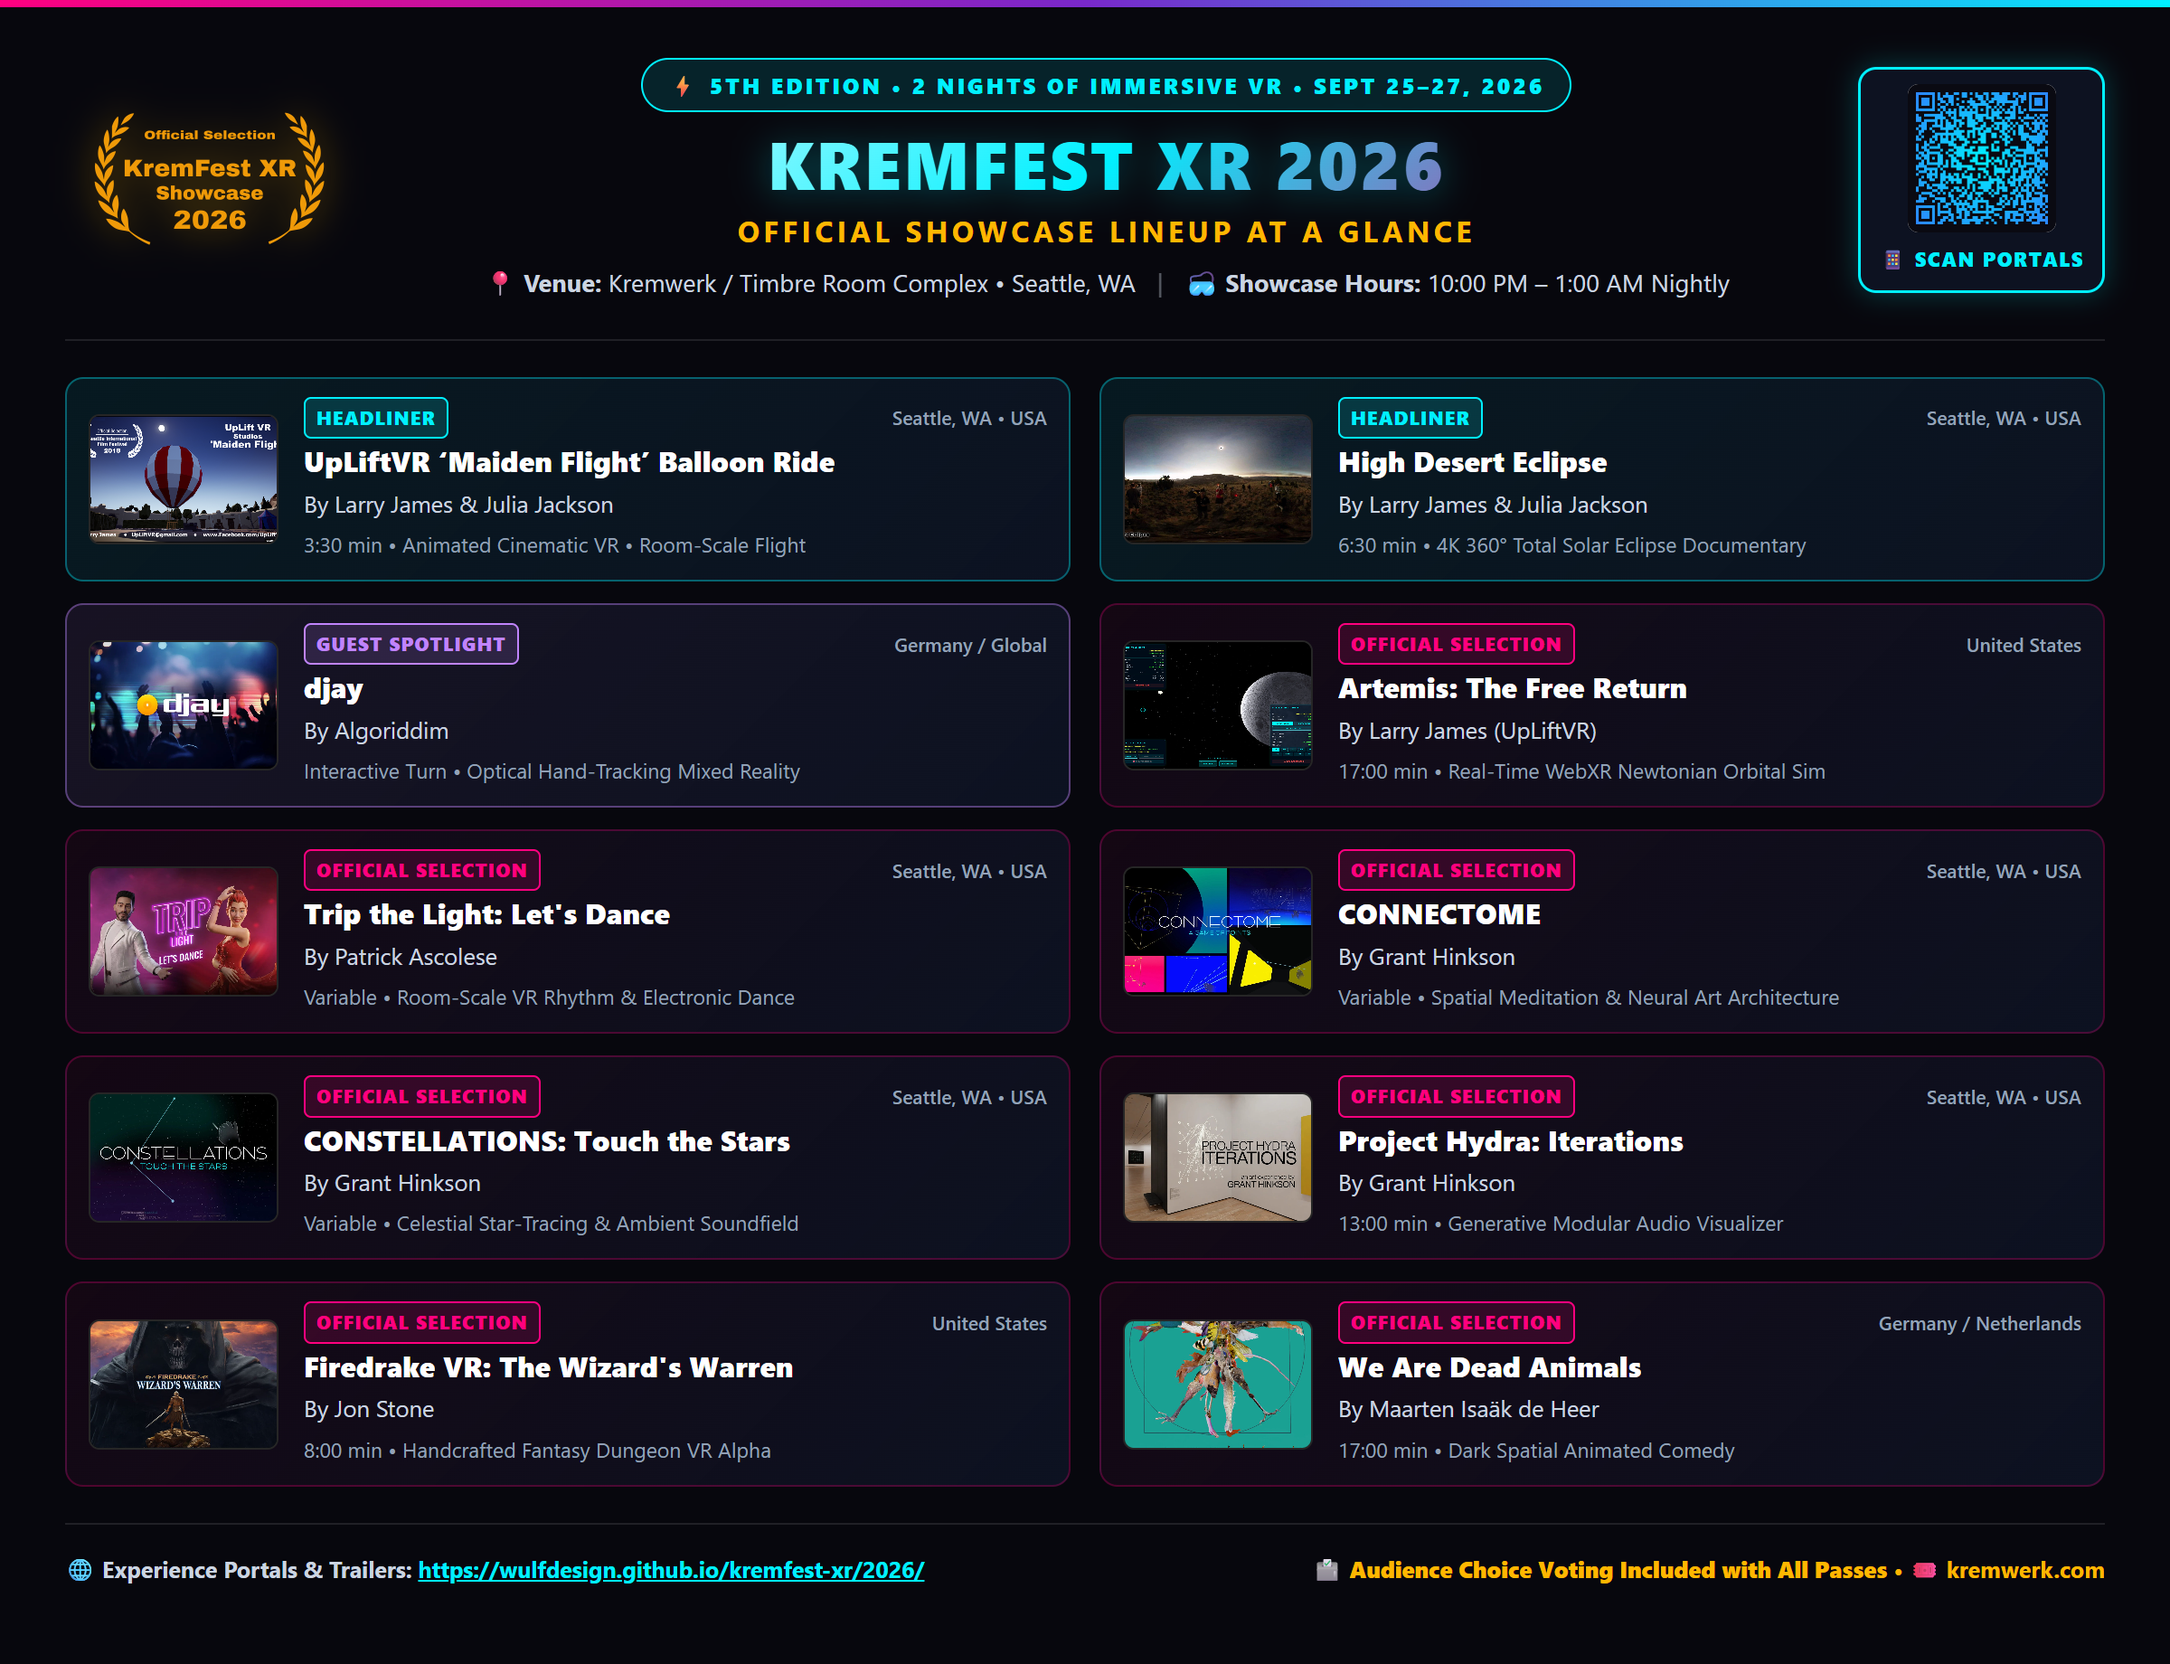
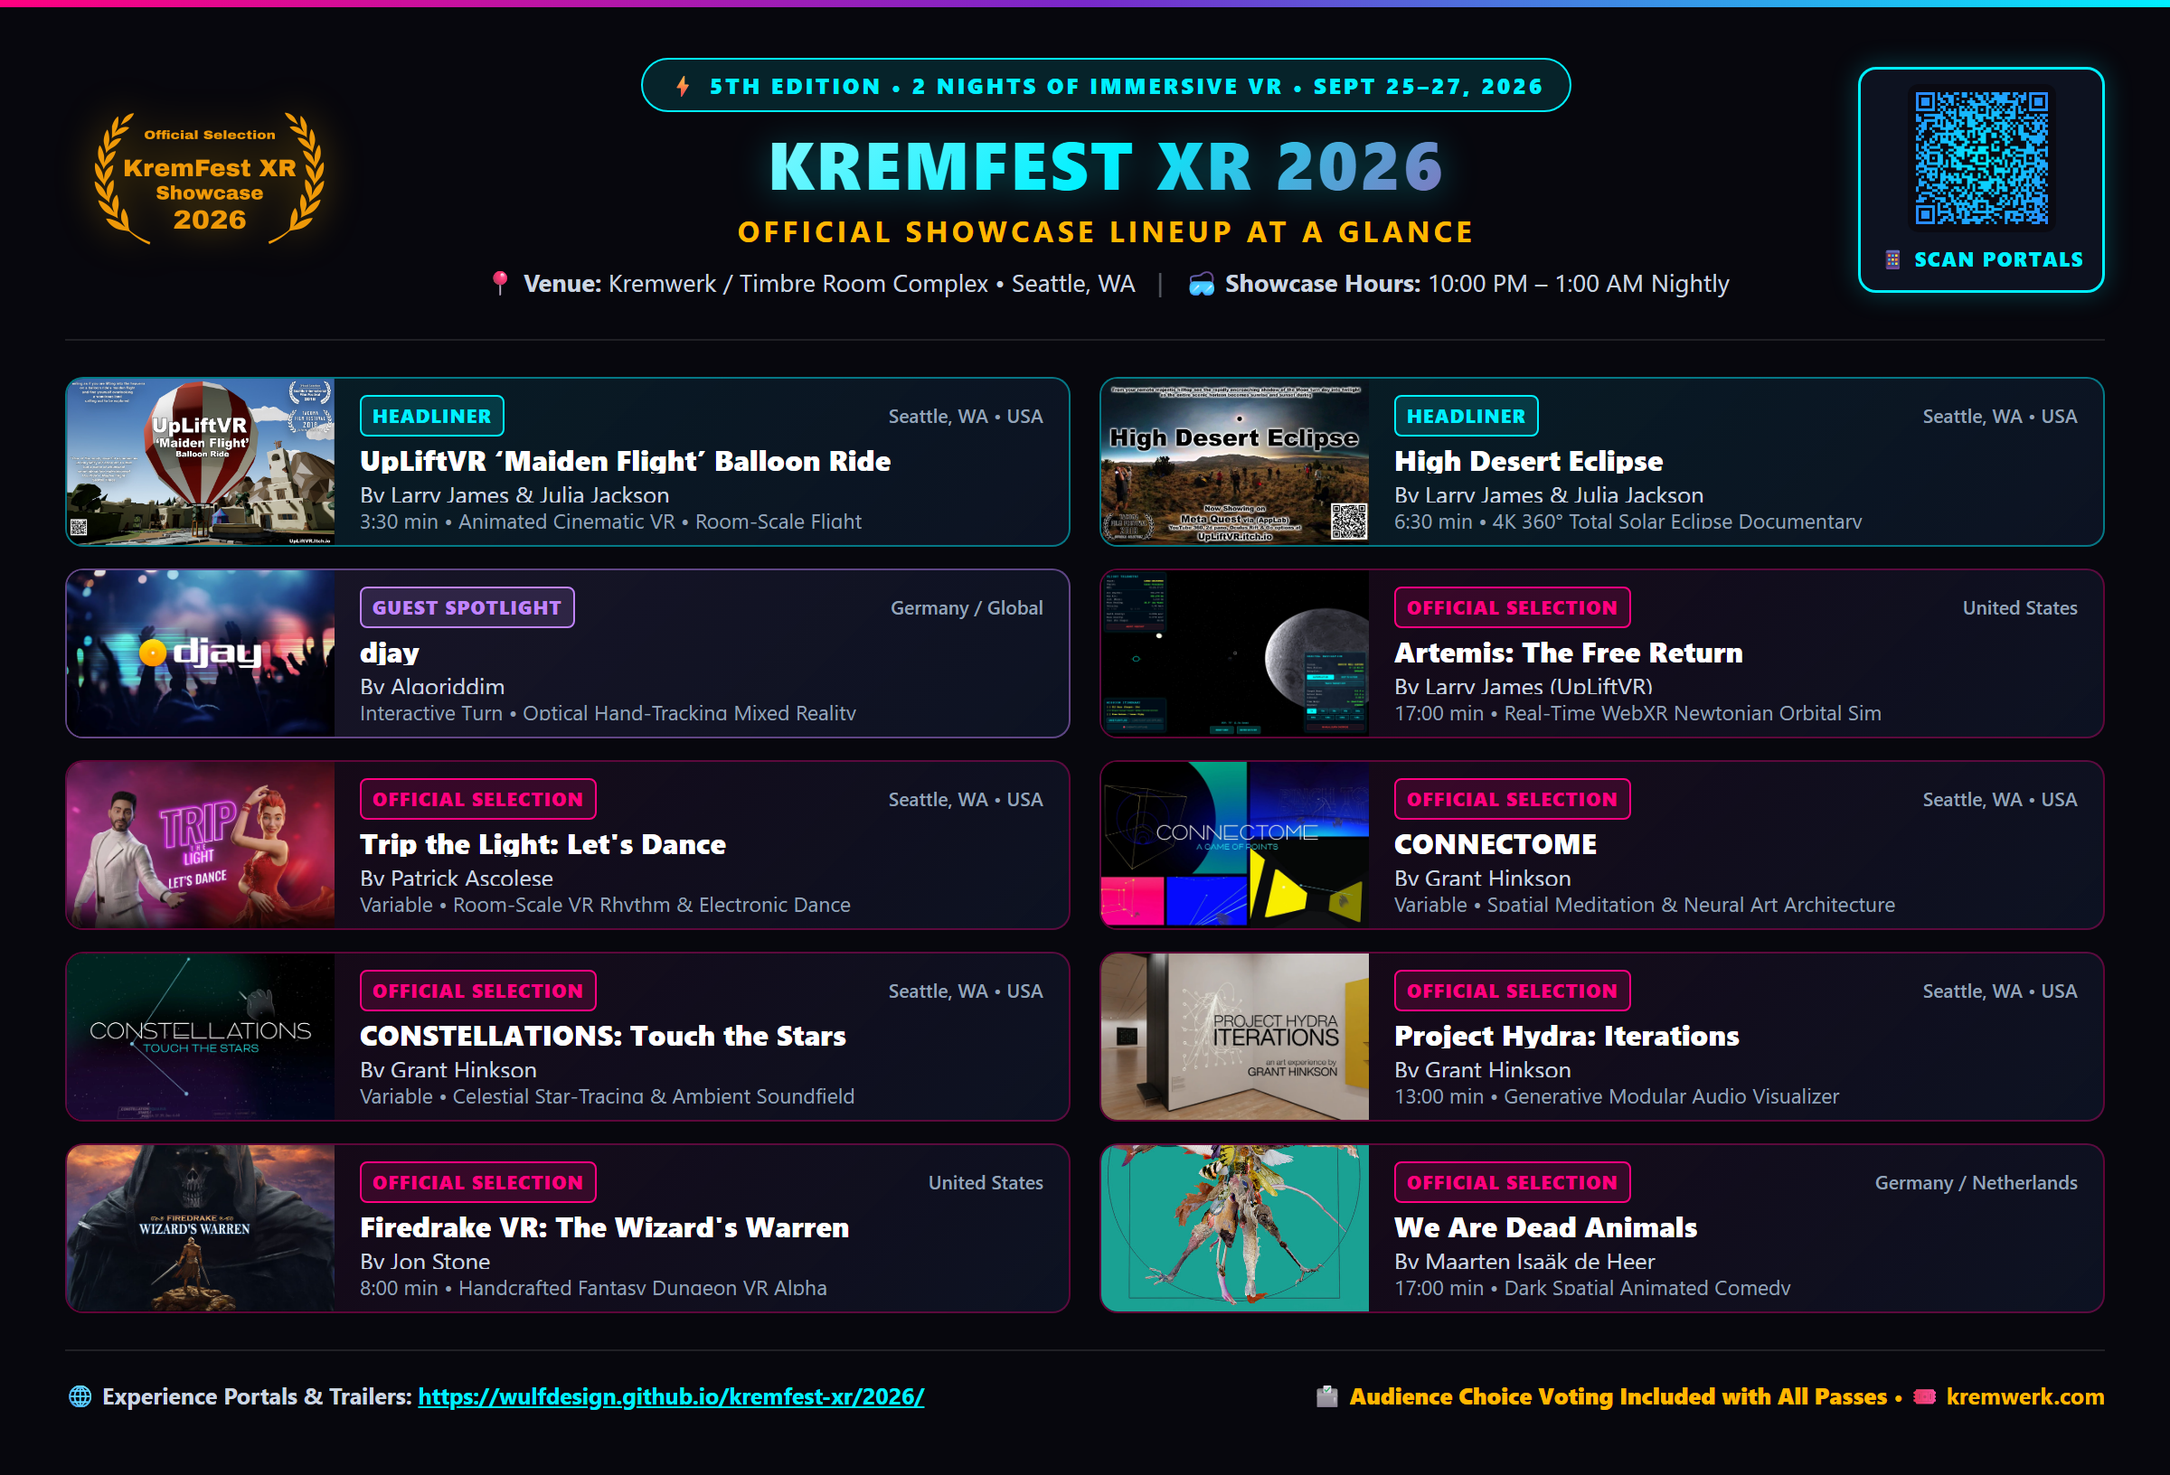
feat(public): universal 2026 headliner art across all years and 2x edge-to-edge social one-sheet (v0.1.99)

diff --git a/2026/index.html b/2026/index.html
@@ -4,7 +4,7 @@
   <meta charset="UTF-8">
   <meta name="viewport" content="width=device-width, initial-scale=1.0">
   <title>KremFest XR 2026 — 5th Showcase Edition & Submissions</title>
-  <link rel="stylesheet" href="../assets/css/style.css?v=0.1.84">
+  <link rel="stylesheet" href="../assets/css/style.css?v=0.1.98">
   
   <style>
     /* Flanked Card Action Row Styles (Direct Injection ensures correct rendering without CSS cache dependency) */
@@ -344,6 +344,7 @@
 </head>
 <body class="show-qr-badges">
   
+  
   <nav class="navbar">
     <div class="nav-container">
       <a href="../index.html" class="brand-link">
@@ -419,6 +420,15 @@
 
     </div>
 
+    <div class="diamond-divider"><span class="diamond-pill">✦</span></div>
+
+    
+    <div class="glance-section">
+      <h3 class="glance-title">2026 Showcase Lineup at a Glance</h3>
+      <ul class="glance-bullets">
+        <li><strong>UpLiftVR ‘Maiden Flight’ Balloon Ride</strong> • Larry James & Julia Jackson • 3:30 min • Seattle, USA</li><li><strong>High Desert Eclipse</strong> • Larry James & Julia Jackson • 6:30 min • Seattle, USA</li><li><strong>djay</strong> • Algoriddim • 5–10 min • Germany / Global</li><li><strong>Artemis: The Free Return</strong> • Larry James • 17 min • Seattle, USA</li><li><strong>Trip the Light: Let's Dance</strong> • Patrick Ascolese • Variable • Seattle, USA</li><li><strong>CONNECTOME</strong> • Grant Hinkson • Variable • Seattle, USA</li><li><strong>CONSTELLATIONS: Touch the Stars</strong> • Grant Hinkson • Variable • Seattle, USA</li><li><strong>Project Hydra: Iterations</strong> • Grant Hinkson • 13 min • Seattle, USA</li><li><strong>Firedrake VR: The Wizard's Warren</strong> • Jon Stone • 8 min • USA</li><li><strong>We Are Dead Animals</strong> • Maarten Isaäk de Heer • 17 min • Germany / Netherlands</li>
+      </ul>
+    </div>
     <div class="diamond-divider"><span class="diamond-pill">✦</span></div>
 
     <h2 class="group-heading">Headline Experiences from UpLiftVR Studios</h2>
@@ -931,15 +941,6 @@ Together, de Heer’s projects form a unique artistic practice that combines ani
       </div>
     </div>
 
-
-    <div class="diamond-divider"><span class="diamond-pill">✦</span></div>
-    
-    <div class="glance-section">
-      <h3 class="glance-title">2026 Showcase Lineup at a Glance</h3>
-      <ul class="glance-bullets">
-        <li><strong>UpLiftVR ‘Maiden Flight’ Balloon Ride</strong> • Larry James & Julia Jackson • 3 min 30 sec • USA</li><li><strong>High Desert Eclipse</strong> • Larry James & Julia Jackson • 6 min 30 sec • USA</li><li><strong>Artemis: The Free Return (WebXR Orbital Sandbox)</strong> • Larry James • 17 minutes (Variable 5 minutes – 60 hours) • United States</li><li><strong>Trip the Light: Let's Dance</strong> • Patrick Ascolese • Variable (Interactive Room-Scale Rhythm Experience) • Seattle, WA • USA</li><li><strong>CONNECTOME</strong> • Grant Hinkson • Variable (Room-Scale Spatial Meditation & Art Puzzle) • Seattle, WA • USA</li><li><strong>CONSTELLATIONS: Touch the Stars</strong> • Grant Hinkson • Variable (Celestial Star-Tracing & Ambient Starfield) • Seattle, WA • USA</li><li><strong>Project Hydra: Iterations</strong> • Grant Hinkson • 13 minutes (Complete Generative Audio Loop) • Seattle, WA • USA</li><li><strong>djay</strong> • Algoriddim • Interactive / Open-Ended (5:00–10:00 Recommended Turn) • Germany (Munich) / Global</li><li><strong>Firedrake VR</strong> • Jon Stone • 8:00 • United States</li><li><strong>We Are Dead Animals</strong> • Tote Tiere Maarten (Maarten Isaäk de Heer) • 17:00 (15:00–19:00 Variable) • Germany, Netherlands</li>
-      </ul>
-    </div>
     <div class="diamond-divider"><span class="diamond-pill">✦</span></div>
     
     <div class="presenters-section">

diff --git a/2018/index.html b/2018/index.html
@@ -8,6 +8,7 @@
 </head>
 <body>
   
+  
   <nav class="navbar">
     <div class="nav-container">
       <a href="../index.html" class="brand-link">
@@ -43,7 +44,7 @@
     <div class="glance-section">
       <h3 class="glance-title">2018 Showcase Lineup at a Glance</h3>
       <ul class="glance-bullets">
-        <li><strong>UpLiftVR ‘Maiden Flight’ Balloon Ride</strong> • Larry James & Julia Jackson • 3:30 min • Seattle, USA</li><li><strong>High Desert Eclipse</strong> • Larry James & Julia Jackson • 6:30 min • Seattle, USA</li><li><strong>Symbion Project - Bloodthirsty</strong> • Micah Knapp & Avielle Heath (Music by Kasson Crooker) • 6:17 min • Bellingham WA, USA</li><li><strong>Lionhearted</strong> • Ricarda Saleh (Produced by Malte Stehr) • 12:09 min • Hamburg, Germany</li><li><strong>Walter</strong> • Christopher Huang • 4:00 min • USA / Indonesia</li><li><strong>RocketMan 360</strong> • Millo Simulov & Filip Columbeanu (Produced by Gabriela Stefania Hirit) • 20:00 min • Bucharest, Romania</li><li><strong>Crackle</strong> • Eddie Avil, Ashley Rodrigues, Saju Jose • 14:36 min • India</li>
+        <li><strong>UpLiftVR ‘Maiden Flight’ Balloon Ride</strong> • Larry James & Julia Jackson • 3:30 min • Seattle, USA</li><li><strong>High Desert Eclipse</strong> • Larry James & Julia Jackson • 6:30 min • Seattle, USA</li><li><strong>Symbion Project - Bloodthirsty</strong> • Micah Knapp & Avielle Heath • 6:17 min • Bellingham, USA</li><li><strong>Lionhearted</strong> • Ricarda Saleh • 12:09 min • Hamburg, Germany</li><li><strong>Walter</strong> • Christopher Huang • 4:00 min • USA / Indonesia</li><li><strong>RocketMan 360</strong> • Millo Simulov & Filip Columbeanu • 20:00 min • Bucharest, Romania</li><li><strong>Crackle</strong> • Eddie Avil, Ashley Rodrigues & Saju Jose • 14:36 min • India</li>
       </ul>
     </div>
     <div class="diamond-divider"><span class="diamond-pill">✦</span></div>
@@ -51,7 +52,7 @@
     <h2 class="group-heading">Headline Experiences from UpLiftVR Studios</h2>
     
     <article class="project-entry" id="2018-hl-maiden-flight">
-      <img class="project-image" src="../assets/images/2018/maiden_flight_2018.png" alt="UpLiftVR ‘Maiden Flight’ Balloon Ride" loading="lazy">
+      <img class="project-image" src="../assets/images/headliners/maiden_flight_banner.jpg" alt="UpLiftVR ‘Maiden Flight’ Balloon Ride" loading="lazy">
       <h3 class="project-title">UpLiftVR ‘Maiden Flight’ Balloon Ride</h3>
       <div class="project-byline">By Larry James & Julia Jackson</div>
       <p class="project-logline">Feeling as if you are lifting into the heavens on a balloon maiden flight you find yourself overlooking a wondrous lucid dreamlike land calling out to be explored.</p>
@@ -68,7 +69,7 @@
     </article>
     <div class="diamond-divider"><span class="diamond-pill">✦</span></div>
     <article class="project-entry" id="2018-hl-high-desert-eclipse">
-      <img class="project-image" src="../assets/images/2018/high_desert_eclipse_2018.png" alt="High Desert Eclipse" loading="lazy">
+      <img class="project-image" src="../assets/images/headliners/high_desert_eclipse_banner.jpg" alt="High Desert Eclipse" loading="lazy">
       <h3 class="project-title">High Desert Eclipse</h3>
       <div class="project-byline">By Larry James & Julia Jackson</div>
       <p class="project-logline">From a remote majestic hilltop overlook the rapidly encroaching shadow of the moon turns day into twilight and the entire panoramic high desert scenic horizon becomes either sunrise or sunset.</p>

diff --git a/2025/index.html b/2025/index.html
@@ -8,6 +8,7 @@
 </head>
 <body>
   
+  
   <nav class="navbar">
     <div class="nav-container">
       <a href="../index.html" class="brand-link">
@@ -35,6 +36,15 @@
       </p>
     </div>
 
+    <div class="diamond-divider"><span class="diamond-pill">✦</span></div>
+
+    
+    <div class="glance-section">
+      <h3 class="glance-title">2025 Showcase Lineup at a Glance</h3>
+      <ul class="glance-bullets">
+        <li><strong>UpLiftVR ‘Maiden Flight’ Balloon Ride</strong> • Larry James & Julia Jackson • 3 min 30 sec • USA</li><li><strong>High Desert Eclipse</strong> • Larry James & Julia Jackson • 6 min 30 sec • USA</li><li><strong>Noises</strong> • Diana David • ~3-5 min per path (~15 min total exploration) • Portugal</li><li><strong>Max Q</strong> • Joel Benjamin • 17 min 30 sec • USA</li><li><strong>The Encounter</strong> • Jaishankar Srinivasan • 10 min 07 sec • USA</li><li><strong>Meridian Transmissions</strong> • Eric Patrick • 12 min 56 sec • USA</li><li><strong>Toward Entropy 360</strong> • Jaewook Lee • 15 min 00 sec • USA</li>
+      </ul>
+    </div>
     <div class="diamond-divider"><span class="diamond-pill">✦</span></div>
 
     <h2 class="group-heading">Headline Experiences from UpLiftVR Studios</h2>
@@ -80,15 +90,6 @@
       </ul>
       <div class="project-links-row"><a href="https://youtu.be/fzcFw_33iC8" target="_blank">Watch 360 Eclipse Video</a> <span class="link-dot">•</span> <a href="https://www.meta.com/experiences/high-desert-eclipse/5486799141392429/" target="_blank">Meta Quest Store</a> <span class="link-dot">•</span> <a href="https://wulfdesign.github.io/high-desert-eclipse/" target="_blank">Eclipse Story Portal</a> <span class="link-dot">•</span> <a href="https://filmfreeway.com/HighDesertEclipse" target="_blank">FilmFreeway</a></div>
     </article>
-    <div class="diamond-divider"><span class="diamond-pill">✦</span></div>
-
-    
-    <div class="glance-section">
-      <h3 class="glance-title">2025 Showcase Lineup at a Glance</h3>
-      <ul class="glance-bullets">
-        <li><strong>UpLiftVR ‘Maiden Flight’ Balloon Ride</strong> • Larry James & Julia Jackson • 3 min 30 sec • USA</li><li><strong>High Desert Eclipse</strong> • Larry James & Julia Jackson • 6 min 30 sec • USA</li><li><strong>Noises</strong> • Diana David • ~3-5 min per path (~15 min total exploration) • Portugal</li><li><strong>Max Q</strong> • Joel Benjamin • 17 min 30 sec • USA</li><li><strong>The Encounter</strong> • Jaishankar Srinivasan • 10 min 07 sec • USA</li><li><strong>Meridian Transmissions</strong> • Eric Patrick • 12 min 56 sec • USA</li><li><strong>Toward Entropy 360</strong> • Jaewook Lee • 15 min 00 sec • USA</li>
-      </ul>
-    </div>
     <div class="diamond-divider"><span class="diamond-pill">✦</span></div>
 
     <h2 class="group-heading">2025 Official Selections</h2>

diff --git a/2019/index.html b/2019/index.html
@@ -8,6 +8,7 @@
 </head>
 <body>
   
+  
   <nav class="navbar">
     <div class="nav-container">
       <a href="../index.html" class="brand-link">
@@ -51,7 +52,7 @@
     <h2 class="group-heading">Headline Experiences from UpLiftVR Studios</h2>
     
     <article class="project-entry" id="2019-hl-maiden-flight">
-      <img class="project-image" src="../assets/images/2019/maiden_flight_2019.png" alt="UpLiftVR ‘Maiden Flight’ Balloon Ride" loading="lazy">
+      <img class="project-image" src="../assets/images/headliners/maiden_flight_banner.jpg" alt="UpLiftVR ‘Maiden Flight’ Balloon Ride" loading="lazy">
       <h3 class="project-title">UpLiftVR ‘Maiden Flight’ Balloon Ride</h3>
       <div class="project-byline">By Larry James & Julia Jackson</div>
       <p class="project-logline">Feeling as if you are lifting into the heavens on a balloon maiden flight you find yourself overlooking a wondrous lucid dreamlike land calling out to be explored.</p>
@@ -68,7 +69,7 @@
     </article>
     <div class="diamond-divider"><span class="diamond-pill">✦</span></div>
     <article class="project-entry" id="2019-hl-high-desert-eclipse">
-      <img class="project-image" src="../assets/images/2019/high_desert_eclipse_2019.png" alt="High Desert Eclipse" loading="lazy">
+      <img class="project-image" src="../assets/images/headliners/high_desert_eclipse_banner.jpg" alt="High Desert Eclipse" loading="lazy">
       <h3 class="project-title">High Desert Eclipse</h3>
       <div class="project-byline">By Larry James & Julia Jackson</div>
       <p class="project-logline">From a remote majestic hilltop overlook the rapidly encroaching shadow of the moon turns day into twilight and the entire panoramic high desert scenic horizon becomes either sunrise or sunset.</p>

diff --git a/index.html b/index.html
@@ -5,7 +5,7 @@
   <meta name="viewport" content="width=device-width, initial-scale=1.0">
   <title>KremFest XR — Virtual Reality & Immersive Art Showcase</title>
   <meta name="description" content="Official VR & Immersive Media Showcase for Kremfest at the Kremwerk Complex in Seattle, WA. Curated by VRMakerDome & UpLiftVR.">
-  <link rel="stylesheet" href="assets/css/style.css?v=0.1.84">
+  <link rel="stylesheet" href="assets/css/style.css?v=0.1.98">
   
   <style>
     /* Flanked Card Action Row Styles (Direct Injection ensures correct rendering without CSS cache dependency) */
@@ -344,6 +344,7 @@
   </style>
 </head>
 <body class="show-qr-badges">
+  
   
   <nav class="navbar">
     <div class="nav-container">

diff --git a/2025/vote/index.html b/2025/vote/index.html
@@ -8,6 +8,7 @@
 </head>
 <body>
   
+  
   <nav class="navbar">
     <div class="nav-container">
       <a href="../../index.html" class="brand-link">

diff --git a/2026/vote/index.html b/2026/vote/index.html
@@ -8,6 +8,7 @@
 </head>
 <body>
   
+  
   <nav class="navbar">
     <div class="nav-container">
       <a href="../../index.html" class="brand-link">

diff --git a/2017/index.html b/2017/index.html
@@ -8,6 +8,7 @@
 </head>
 <body>
   
+  
   <nav class="navbar">
     <div class="nav-container">
       <a href="../index.html" class="brand-link">
